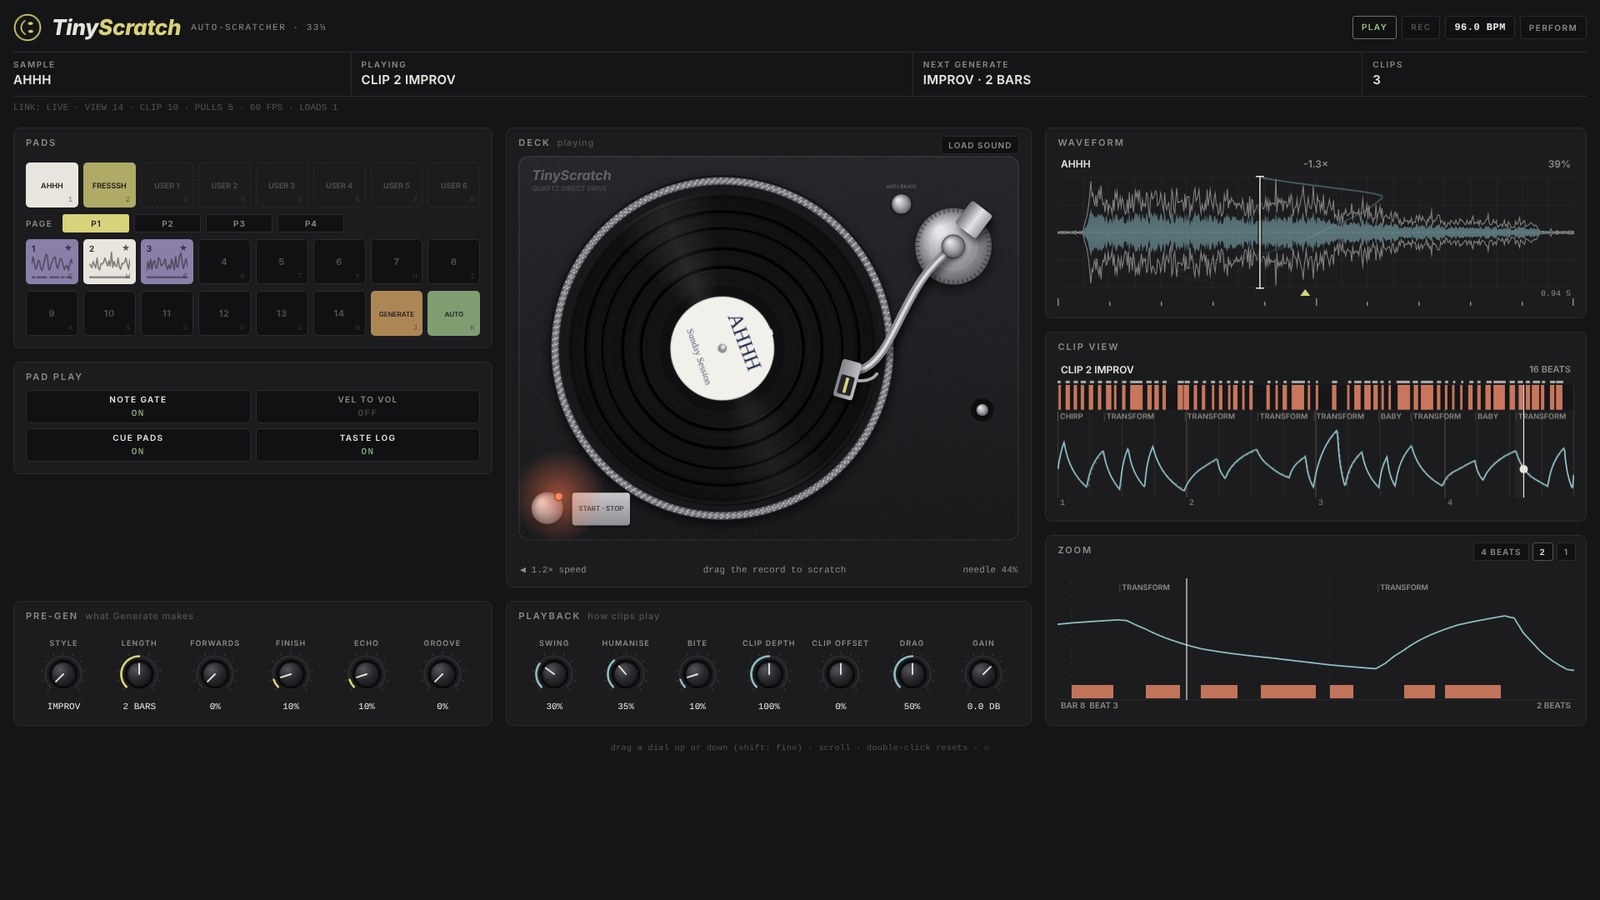
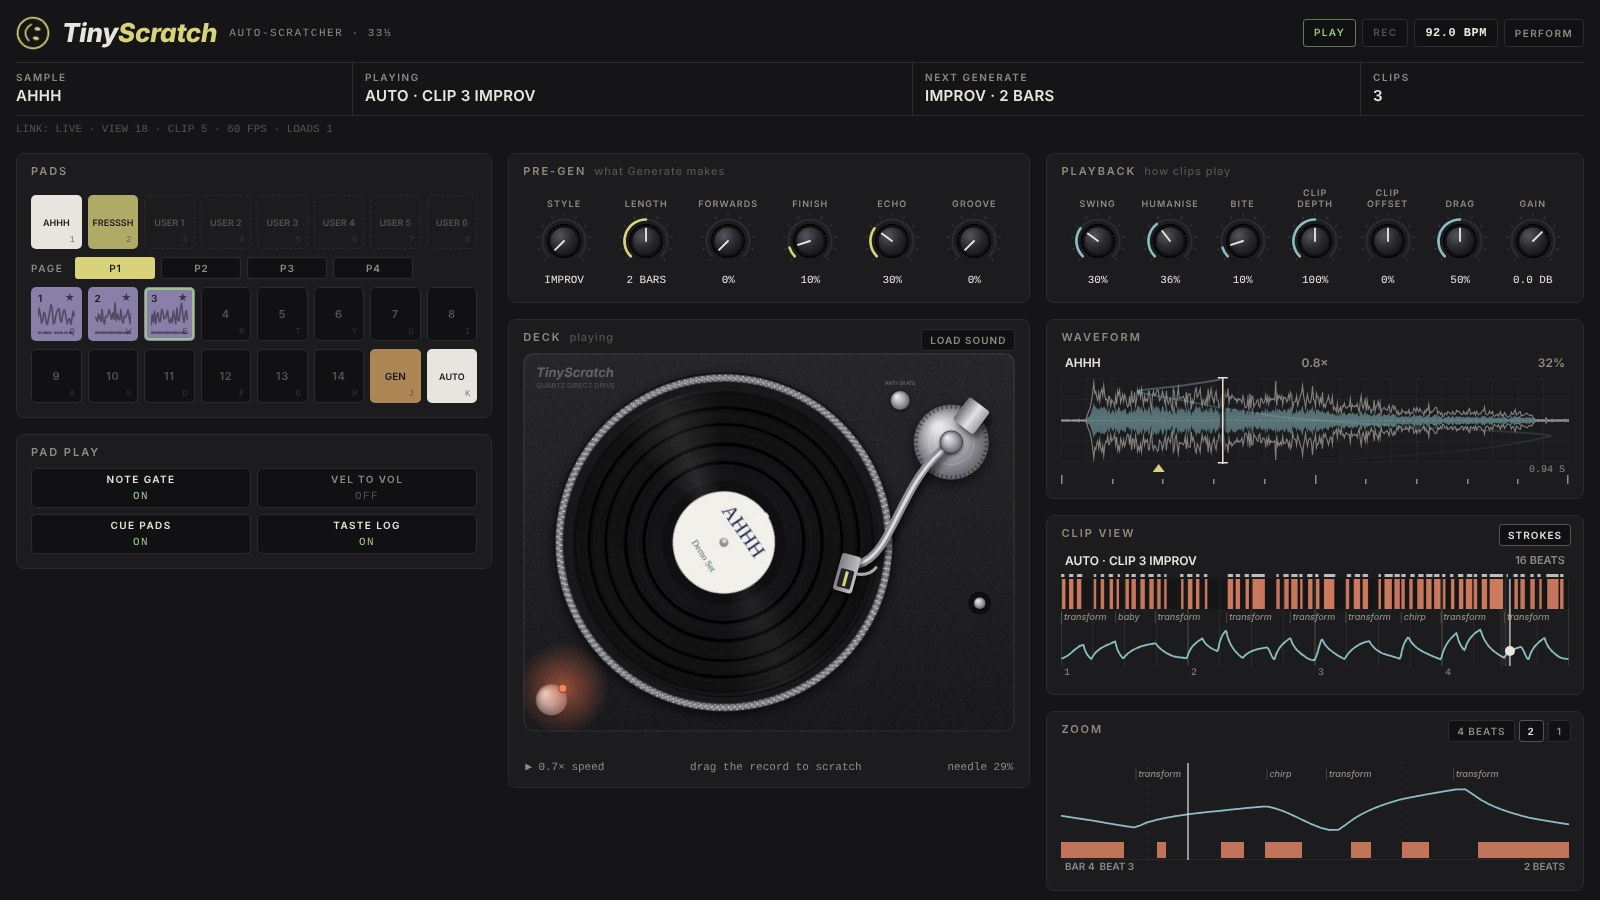
README: a new Remote UI screenshot, the dials along the top
Claude-Session: https://claude.ai/code/session_01FJE46k4ZC17ceAdwdN6FyP

diff --git a/README.md b/README.md
@@ -211,7 +211,7 @@ bottom left, for playing the pads without the Pads screen.
 
 ## The Remote UI
 
-![TinyScratch's Remote UI: the pads and dials on the left, the deck in the middle, the waveform, clip view and zoom on the right](docs/remote-ui.jpg)
+![TinyScratch's Remote UI: the pads and Pad Play on the left, the Pre-gen and Playback dials along the top, the deck in the middle, the waveform, clip view and zoom on the right](docs/remote-ui.jpg)
 
 Open **http://move.local:7700/remote-ui** in a browser on the same network, with TinyScratch in a track's synth slot, and the module has a
 page of its own (Schwung's Remote UI shows it in place of the plain list of controls):
@@ -232,10 +232,10 @@ page of its own (Schwung's Remote UI shows it in place of the plain list of cont
   when Ahhh or Fresssh is selected).
 - **Scratch the record**: grab the vinyl and turn it. The playhead goes where your hand takes it (a turn at 33 1/3 is the sample at its own
   speed) and the fader is open while your hand is on; let go and the clip takes over again. You hear it after the network's delay.
-- **The dials**, under the deck and grouped as the pages are: **Pre-Gen** (Style, Length, Forwards, Finish, Echo, Groove), **Playback** (Swing, Humanise,
+- **The dials**, along the top and grouped as the pages are: **Pre-Gen** (Style, Length, Forwards, Finish, Echo, Groove), **Playback** (Swing, Humanise,
   Bite, Clip Depth, Clip Offset, Drag, Gain) and **Pad Play**. Drag up or down (Shift for fine), scroll, or double-click to reset.
 
-On a wide screen (1400 px and over, or the pop-out window) it lays out in three columns: the pads and dials, the deck, the graphs.
+On a wide screen (1400 px and over, or the pop-out window) it lays out in three columns: the pads and Pad Play; Pre-Gen over the deck; Playback over the graphs.
 **PERFORM** (top right) shows only the deck, big pads and the zoom, full screen where the browser allows it (the pop-out window does).
 
 The host sends the page what it shows twice a second, so between those it plays the clip itself, on the beat clock the DSP sends, through
